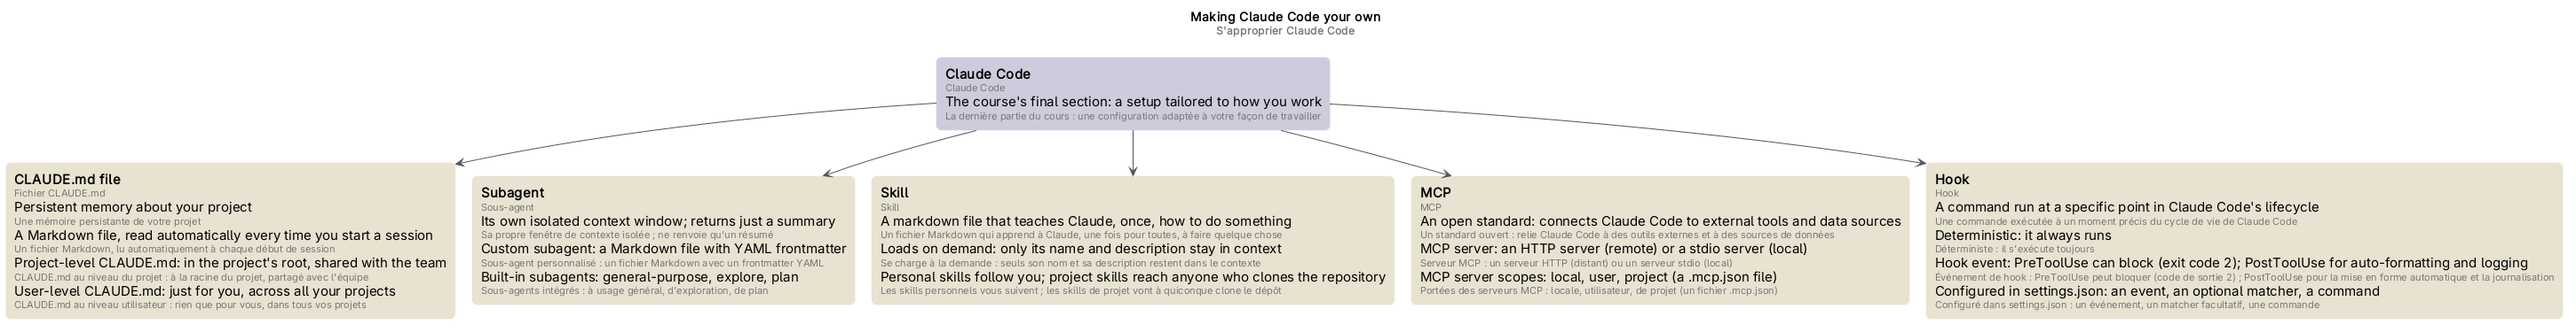
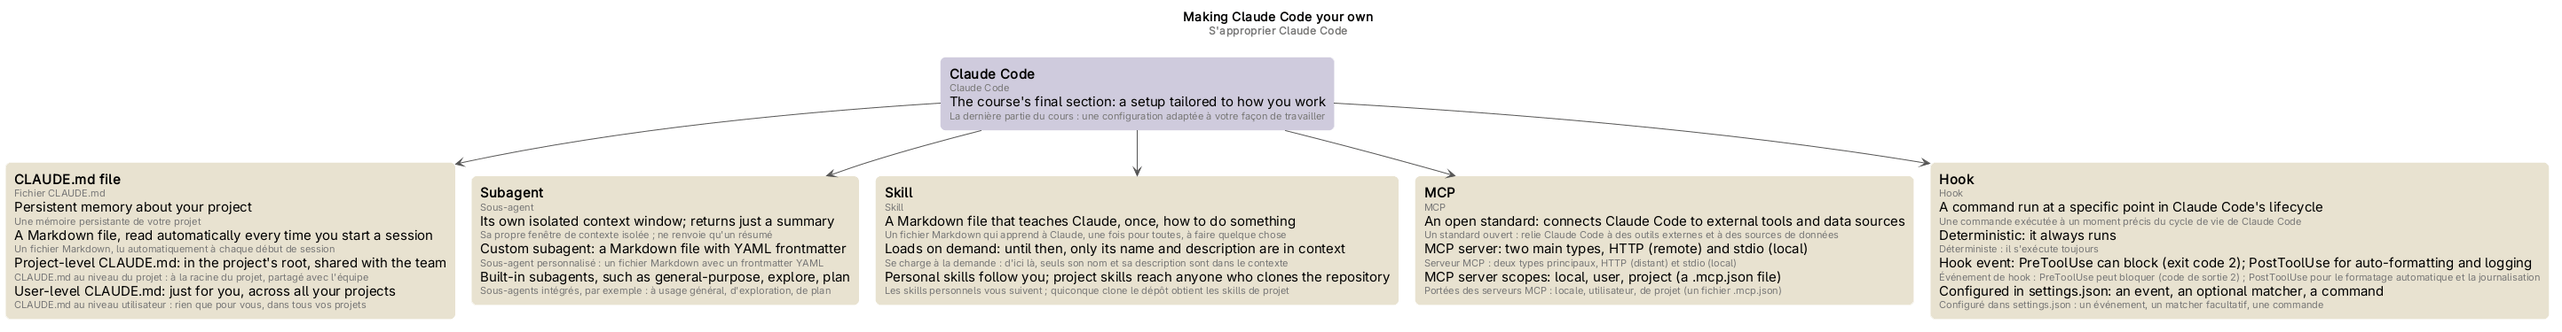
docs: Claude Code 101, a review of every entry and map against the course
Wrong attributions fixed (Desktop, winget), sentences that read the wrong
way alone (a skill's name and description, an MCP server's tool names),
open lists no longer written as closed ones, the agentic loop's done
branch added to its map, and the French of the four maps.

diff --git a/06-claude-code-101/index.md b/06-claude-code-101/index.md
@@ -15,7 +15,7 @@ Schémas, avec un sommaire et une légende pour chacun : [mindmap.md](mindmap.md
 
 ### Claude Code *(Claude Code)*
 
-An agentic coding tool that understands your codebase, edits your files, runs commands, and integrates with your existing developer tools to help you get things done faster. It's available in your terminal, Visual Studio Code, the Claude Desktop app, on the web, and in JetBrains IDEs. Unlike Claude.ai, it has direct access to your files, your terminal, and your entire codebase: instead of copying and pasting code back and forth, it goes in and does the work itself, because it works as an [AI agent](#ai-agent-agent-ia). In practice it can read and understand your codebase (explain a feature, trace a bug), edit files across your project (refactor a function and update every file that references it), run terminal commands (execute your build script, run your tests, install packages, and use the output to decide what to do next) and search the web (documentation, the latest API references). Three concepts to keep in mind to use it effectively: the [context window](#context-window-fenêtre-de-contexte), its [permission modes](#permission-modes-modes-de-permission), and the fact that it can make mistakes: it might misunderstand your intent, introduce a bug, or over-engineer a solution, and staying in the loop helps you catch these early. It combines several agentic concepts: an [agentic loop](#agentic-loop-boucle-agentique), a managed [context window](#context-window-fenêtre-de-contexte), [tools](#tool-outil), and configurable [permission modes](#permission-modes-modes-de-permission), all inside your terminal: it can read your codebase, take action, and verify its own work. That's what makes it fundamentally different from a chat window. Whatever directory you run `claude` in, it has access to that directory and all of its subfolders. To install it, on macOS, Linux, or WSL the curl command does it in one go; Homebrew and winget work too but don't auto-update by default. Where to use it: the terminal is the best bet to stay on the cutting edge, since features ship there first; the IDE integrations offer a nearly identical experience, more intertwined with your code editor; Desktop lets Claude run in the background, work in a specific folder, change permissions, or work in a cloud environment; the web is restricted to GitHub repositories and suits remote work.
+An agentic coding tool that understands your codebase, edits your files, runs commands, and integrates with your existing developer tools to help you get things done faster. It's available in your terminal, Visual Studio Code, the Claude Desktop app, on the web, and in JetBrains IDEs. Unlike Claude.ai, it has direct access to your files, your terminal, and your entire codebase: instead of copying and pasting code back and forth, it goes in and does the work itself. The key differentiator is that it works as an [AI agent](#ai-agent-agent-ia). In practice it can read and understand your codebase (explain a feature, trace a bug), edit files across your project (refactor a function and update every file that references it), run terminal commands (execute your build script, run your tests, install packages, and use the output to decide what to do next) and search the web (documentation, the latest API references). Three concepts to keep in mind to use it effectively: the [context window](#context-window-fenêtre-de-contexte), its [permission modes](#permission-modes-modes-de-permission), and the fact that it can make mistakes: it might misunderstand your intent, introduce a bug, or over-engineer a solution, and staying in the loop helps you catch these early. It combines several agentic concepts: an [agentic loop](#agentic-loop-boucle-agentique), a managed [context window](#context-window-fenêtre-de-contexte), [tools](#tool-outil), and configurable [permission modes](#permission-modes-modes-de-permission), all inside your terminal: it can read your codebase, take action, and verify its own work. That's what makes it fundamentally different from a chat window. Whatever directory you run `claude` in, it has access to that directory and all of its subfolders. To install it on macOS, Linux, or WSL, the curl command does it in one go, and Homebrew works too; on Windows there are a few options, among them a winget command. Neither Homebrew nor winget auto-updates by default. Where to use it: the terminal is the best bet to stay on the cutting edge, since features ship there first; the IDE integrations offer a nearly identical experience, more intertwined with your code editor; Desktop lets you work in a specific folder, change permissions, and even work in a cloud environment, and is great for letting Claude run in the background while you handle other tasks; the web is restricted to GitHub repositories and suits remote work.
 
 → [schéma du fonctionnement de Claude Code](mindmap/how-claude-code-works.png)
 
@@ -45,13 +45,13 @@ What [Claude Code](#claude-code-claude-code) does once you reach the limit of th
 
 ### Context commands *(Commandes de contexte)*
 
-Three commands to act on the [context window](#context-window-fenêtre-de-contexte) of [Claude Code](#claude-code-claude-code). `/compact` runs [compaction](#compaction-compaction) manually: it compacts everything up to that point, which is handy to free up context space while keeping a memory of what you previously worked on. `/clear` starts completely from scratch, with no memory of the previous session: it removes everything. `/context` checks the state of your context: a high-level overview of your context size, the categories taking up the most space, and a visual graphic showing the breakdown.
+The course's context-management commands, three commands to act on the [context window](#context-window-fenêtre-de-contexte) of [Claude Code](#claude-code-claude-code). `/compact` runs [compaction](#compaction-compaction) manually: it compacts everything up to that point, which is handy to free up context space while keeping a memory of what you previously worked on. `/clear` starts completely from scratch, with no memory of the previous session: it removes everything. `/context` checks the state of your context: a high-level overview of your context size, the categories taking up the most space, and a visual graphic showing the breakdown.
 
 → [schéma de la gestion du contexte](mindmap/context-management.png)
 
 ### Context management *(Gestion du contexte)*
 
-Keeping the [context window](#context-window-fenêtre-de-contexte) of [Claude Code](#claude-code-claude-code) useful. A general rule of thumb: use `/compact` when you're working on a specific feature and running up against the context limit but need to continue, because keeping the context relevant to your current feature is important; use `/clear` when you want to start a new feature, because you don't want the previous conversation to introduce bias into something new (see [context commands](#context-commands-commandes-de-contexte)). For things you want Claude to remember across sessions, put them in your [CLAUDE.md file](#claudemd-file-fichier-claudemd). To save context space: be specific (a vague prompt might seem smaller, but it costs more context in the long run, since without clear instructions Claude is forced to explore your codebase more and do its own reasoning); manage your [MCP servers](#mcp-server-serveur-mcp), turning off those unrelated to the current project; and use [subagents](#subagent-sous-agent) for tasks where you only need the answer.
+Managing the [context window](#context-window-fenêtre-de-contexte) of [Claude Code](#claude-code-claude-code), which the course calls crucial. A general rule of thumb: use `/compact` when you're working on a specific feature and running up against the context limit but need to continue, because keeping the context relevant to your current feature is important; use `/clear` when you want to start a new feature, because you don't want the previous conversation to introduce bias into something new (see [context commands](#context-commands-commandes-de-contexte)). For things you want Claude to remember across sessions, put them in your [CLAUDE.md file](#claudemd-file-fichier-claudemd). To save context space: be specific (a vague prompt might seem smaller, but it costs more context in the long run, since without clear instructions Claude is forced to explore your codebase more and do its own reasoning); manage your [MCP servers](#mcp-server-serveur-mcp), turning off those unrelated to the current project; and use [subagents](#subagent-sous-agent) for tasks where you only need the answer.
 
 → [schéma de la gestion du contexte](mindmap/context-management.png)
 
@@ -69,7 +69,7 @@ Model Context Protocol, an open standard that lets [Claude Code](#claude-code-cl
 
 ### MCP server *(Serveur MCP)*
 
-What connects [Claude Code](#claude-code-claude-code) to external tools and data sources through [MCP](#mcp-mcp). You add one with the claude mcp add command; it is an [HTTP server](#http-server-serveur-http) or a [stdio server](#stdio-server-serveur-stdio), and it has a [scope](#mcp-server-scopes-portées-des-serveurs-mcp). You manage your servers with /mcp inside a Claude Code session: see what's connected, check status, and disable servers you don't need. By default, a connected MCP server loads only its tool names and instructions into the context, and Claude loads a [tool](#tool-outil)'s full details when it needs that tool ([tool search](#tool-search-recherche-doutils)). It adds them even when you're not actively using it, and each server still takes some space, so if you have servers configured for things unrelated to the current project, consider turning them off (see [context management](#context-management-gestion-du-contexte)). If a tool has a CLI equivalent (like gh for GitHub or aws for AWS), the CLI is more context-efficient because it doesn't add a listing for each tool. You might also pair an MCP server with a [skill](#skill-skill) that teaches Claude how to use the server's tools well.
+What connects [Claude Code](#claude-code-claude-code) to external tools and data sources through [MCP](#mcp-mcp). You add one with the claude mcp add command; its two main types are the [HTTP server](#http-server-serveur-http) and the [stdio server](#stdio-server-serveur-stdio), and it has a [scope](#mcp-server-scopes-portées-des-serveurs-mcp). You manage your servers with /mcp inside a Claude Code session: see what's connected, check status, and disable servers you don't need. By default, a connected MCP server loads only its tool names and instructions into the context, and Claude loads a [tool](#tool-outil)'s full details when it needs that tool ([tool search](#tool-search-recherche-doutils)). A server adds its tool names and instructions to your context window even when you're not actively using it, and each connected server takes some space, so if you have servers configured for things unrelated to the current project, consider turning them off (see [context management](#context-management-gestion-du-contexte)). If a tool has a CLI equivalent (like gh for GitHub or aws for AWS), the CLI is more context-efficient because it doesn't add a listing for each tool. You might also pair an MCP server with a [skill](#skill-skill) that teaches Claude how to use the server's tools well.
 
 → [schéma de la personnalisation de Claude Code](mindmap/making-claude-code-your-own.png)
 
@@ -99,13 +99,13 @@ On by default: Claude Code keeps the full definition of each [MCP server](#mcp-s
 
 ### Permission modes *(Modes de permission)*
 
-What lets you choose how hands-on to be with [Claude Code](#claude-code-claude-code): it can ask you before running commands or making changes, or run in [auto mode](#auto-mode-mode-auto). You're always in control, whether you prefer a hands-on or hands-off approach. Claude Code has several: [manual](#manual-mode-mode-manuel), [auto-accept](#auto-accept-acceptation-automatique), [plan mode](#plan-mode-mode-plan) and [auto mode](#auto-mode-mode-auto). You can use Shift and Tab to toggle between modes (the page says cycle). There is no right or wrong choice: it is whatever you are comfortable with. All of this can be configured in your settings file. Be cautious when skipping permissions: giving Claude Code free rein to run commands means a mistake could be harder to catch before it happens.
+What lets you choose how hands-on to be with [Claude Code](#claude-code-claude-code): it can ask you before running commands or making changes, or run in [auto mode](#auto-mode-mode-auto). You're always in control, whether you prefer a hands-on or hands-off approach. Claude Code has several: [manual](#manual-mode-mode-manuel), [auto-accept](#auto-accept-acceptation-automatique), [plan mode](#plan-mode-mode-plan) and [auto mode](#auto-mode-mode-auto). Press Shift + Tab to cycle between modes. There is no right or wrong choice: it is whatever you are comfortable with. All of this can be configured in your settings file. Be cautious when skipping permissions: giving Claude Code free rein to run commands means a mistake could be harder to catch before it happens.
 
 → [schéma du fonctionnement de Claude Code](mindmap/how-claude-code-works.png)
 
 ### Manual mode *(Mode manuel)*
 
-A [permission mode](#permission-modes-modes-de-permission) of [Claude Code](#claude-code-claude-code) in which Claude asks for explicit permission before editing a file or running a shell command. The video calls it the default behavior; which mode a new session starts in depends on your Claude Code version and settings.
+A [permission mode](#permission-modes-modes-de-permission) of [Claude Code](#claude-code-claude-code) in which Claude asks for explicit permission before editing a file or running a shell command. Which mode a new session starts in depends on your Claude Code version and settings.
 
 → [schéma du fonctionnement de Claude Code](mindmap/how-claude-code-works.png)
 
@@ -135,7 +135,7 @@ The workflow the course says to take away: Explore, Plan, Code, and Commit. With
 
 ### Subagent *(Sous-agent)*
 
-A reviewer or helper that [Claude Code](#claude-code-claude-code) runs apart from the main agent. A subagent gets a fresh pair of eyes on the codebase: it doesn't carry the bias the main agent might have from the session. The course uses one as a code reviewer before you commit, and the explore subagent to get a general summary of your codebase without being in [plan mode](#plan-mode-mode-plan) and without intending to make changes afterward. A subagent runs in parallel with your main agent but has a completely separate context window: for tasks where you only need the answer, it does the work and returns just a summary to your main agent, keeping your primary context clean (see [context management](#context-management-gestion-du-contexte)). Claude can delegate tasks to subagents that break them down and run component tasks in parallel, each in its own isolated context window: what Claude discovers while exploring, such as tool calls reading your codebase or running web searches, isn't always relevant to the main feature you're developing. Claude spawns a subagent to handle a task like “explore this codebase for me”; once finished, it summarizes its findings and returns that summary back to Claude, so you get the answer without the entire journey it took to get there cluttering your main context. The subagent receives two inputs, a custom system prompt from its configuration file and a task description written by the parent agent based on what you ask for; it then works autonomously, none of its file reads, edits or tool use appears in the main conversation, only a summary is returned, and its whole conversation is discarded. The trade-off: the main window loses visibility into how the subagent reaches its conclusions and what it discovered along the way. Claude Code includes [built-in subagents](#built-in-subagents-sous-agents-intégrés), and you can create a [custom subagent](#custom-subagent-sous-agent-personnalisé) of your own.
+A specialized assistant that [Claude Code](#claude-code-claude-code) can delegate tasks to, operating in its own isolated context window. A subagent gets a fresh pair of eyes on the codebase: it doesn't carry the bias the main agent might have from the session. The course uses one as a code reviewer before you commit, and the explore subagent to get a general summary of your codebase without being in [plan mode](#plan-mode-mode-plan) and without intending to make changes afterward. A subagent runs in parallel with your main agent but has a completely separate context window: for tasks where you only need the answer, it does the work and returns just a summary to your main agent, keeping your primary context clean (see [context management](#context-management-gestion-du-contexte)). Claude can delegate tasks to subagents that break them down and run component tasks in parallel, each in its own isolated context window: a lot of the context window gets consumed by things like tool calls exploring your codebase or running web searches, and what Claude discovers during that exploration isn't always relevant to the main feature you're developing. Claude spawns a subagent to handle a task like "explore this codebase for me"; once finished, it summarizes its findings and returns that summary back to Claude, so you get the answer without the entire journey it took to get there cluttering your main context. The subagent receives two inputs, a custom system prompt from its configuration file and a task description written by the parent agent based on what you ask for; it then works autonomously; none of its file reads, edits or tool use appears in the main conversation; only a summary is returned, and its whole conversation is discarded. The trade-off: the main window loses visibility into how the subagent reaches its conclusions and what it discovered along the way. Claude Code includes [built-in subagents](#built-in-subagents-sous-agents-intégrés), and you can create a [custom subagent](#custom-subagent-sous-agent-personnalisé) of your own.
 
 → [schéma de la personnalisation de Claude Code](mindmap/making-claude-code-your-own.png)
 
@@ -147,13 +147,13 @@ A [subagent](#subagent-sous-agent) you create yourself, with a custom system pro
 
 ### Built-in subagents *(Sous-agents intégrés)*
 
-The [subagents](#subagent-sous-agent) that [Claude Code](#claude-code-claude-code) includes and you can use immediately. The general-purpose subagent is used for multi-step tasks that require both exploration and action; the explore subagent, for fast searching of codebases; the plan subagent, during [plan mode](#plan-mode-mode-plan), for research and analysis of your codebase before presenting a plan. You can also create your own, with custom system prompts and tool access (see [custom subagent](#custom-subagent-sous-agent-personnalisé)).
+[Claude Code](#claude-code-claude-code) includes several [subagents](#subagent-sous-agent) that you can use immediately, such as these three. The general-purpose subagent is used for multi-step tasks that require both exploration and action; the explore subagent, for fast searching of codebases; the plan subagent, during [plan mode](#plan-mode-mode-plan), for research and analysis of your codebase before presenting a plan. You can also create your own, with custom system prompts and tool access (see [custom subagent](#custom-subagent-sous-agent-personnalisé)).
 
 → [schéma de la personnalisation de Claude Code](mindmap/making-claude-code-your-own.png)
 
 ### CLAUDE.md file *(Fichier CLAUDE.md)*
 
-A Markdown file you add to the root of your project: it gives [Claude Code](#claude-code-claude-code) persistent memory about your project, and Claude Code reads it automatically every time you start a session. Without one, it starts fresh every time: it has to re-explore your codebase, figure out what dependencies are needed and understand what features are already implemented, and sometimes it makes assumptions, which makes it harder to steer Claude in the right direction. Think of it as an onboarding script for your codebase: its contents are appended to your prompt. It is where to put what you want Claude to remember across sessions, so it doesn't have to rediscover things from scratch. Start with your stack, your preferences and your commands, then build from there as you go. You can (and should) commit it to version control so your team benefits from it; there is a hierarchy of memory files depending on who they're for: the [project-level CLAUDE.md](#project-level-claudemd-claudemd-au-niveau-du-projet) and the [user-level CLAUDE.md](#user-level-claudemd-claudemd-au-niveau-utilisateur). Save corrections to memory: if you find yourself correcting Claude repeatedly, explicitly ask it to save that rule to memory (if Claude keeps running into the same issues, ask it to save the solution to its CLAUDE.md file), and next time you open the project it will know. To have Claude reference project docs, use the @ symbol with the file path. Start without one, so you can see where you constantly have to course-correct the model: this keeps your CLAUDE.md compact and focused on only the necessary information. See [context management](#context-management-gestion-du-contexte) and the [/init command](#init-command-commande-init).
+A Markdown file you add to the root of your project: it gives [Claude Code](#claude-code-claude-code) persistent memory about your project, and Claude Code reads it automatically every time you start a session. Without one, it starts fresh every time: it has to re-explore your codebase, figure out what dependencies are needed and understand what features are already implemented, and sometimes it makes assumptions, which makes it harder to steer Claude in the right direction. Think of it as an onboarding script for your codebase: its contents are appended to your prompt. It is where to put what you want Claude to remember across sessions, so it doesn't have to rediscover things from scratch. You can (and should) commit it to version control so your team benefits from it; there is a hierarchy of memory files depending on who they're for: the [project-level CLAUDE.md](#project-level-claudemd-claudemd-au-niveau-du-projet) and the [user-level CLAUDE.md](#user-level-claudemd-claudemd-au-niveau-utilisateur). Save corrections to memory: if you find yourself correcting Claude repeatedly, explicitly ask it to save that rule to memory (if Claude keeps running into the same issues, ask it to save the solution to its CLAUDE.md file), and next time you open the project it will know. To have Claude reference project docs, use the @ symbol with the file path. Start without one, so you can see where you constantly have to course-correct the model: this keeps your CLAUDE.md compact and focused on only the necessary information. Its content: start with your stack, your preferences and your commands, then build from there as you go. See [context management](#context-management-gestion-du-contexte) and the [/init command](#init-command-commande-init).
 
 → [schéma de la personnalisation de Claude Code](mindmap/making-claude-code-your-own.png) · [schéma de la gestion du contexte](mindmap/context-management.png)
 
@@ -183,7 +183,7 @@ The before-and-after of a change: the lines removed and the lines added, file by
 
 ### /code-review command *(Commande /code-review)*
 
-A second reviewer for a change, before you keep it: it reviews the change in a clean context, with none of your session's history, and reports what it finds ([findings](#finding-constat)). It edits nothing unless you ask it to. A long session carries everything it has read and decided, which is exactly the history you don't want in a reviewer (see [context management](#context-management-gestion-du-contexte)). The review runs in the background, anywhere from seconds to a few minutes, and counts against your usage like any other task, so save it for changes that deserve a second look. An effort level goes after the command: `/code-review low` reports only the findings it's most confident about, `/code-review high` casts a wider net and may include findings it's less sure of; the level you type is remembered for later reviews until you type a different one. It is not Claude Code Review, a separate product for teams: an Owner of your Claude organization turns it on for a GitHub repository, and it posts its findings on pull requests. See also [diff](#diff-diff).
+A second reviewer for a change, before you keep it: it reviews the change in a clean context, with none of your session's history, and reports what it finds ([findings](#finding-constat)). It edits nothing unless you ask it to. A long session carries everything it has read and decided, which is exactly the history you don't want in a reviewer (see [context management](#context-management-gestion-du-contexte)). The review runs in the background, anywhere from seconds to a few minutes, and counts against your usage like any other task, so save it for changes that deserve a second look. An effort level goes after the command: `/code-review low` reports only the findings it's most confident about, `/code-review high` casts a wider net and may include findings it's less sure of; the level you type is remembered for later reviews until you type a different one. It is not Claude Code Review. That is a separate product for teams: an Owner of your Claude organization turns Claude Code Review on for a GitHub repository, and it posts its findings on pull requests. See also [diff](#diff-diff).
 
 → [schéma du flux de travail](mindmap/workflow.png)
 
@@ -195,13 +195,13 @@ What a [/code-review](#code-review-command-commande-code-review) reports: a file
 
 ### /rewind command *(Commande /rewind)*
 
-The way back when the whole change is wrong: run `/rewind` (or press Esc twice on an empty prompt), pick the prompt that produced it, and choose Restore code and conversation. One limit: files changed by shell commands Claude ran, such as a package install, aren't rolled back. It works on a different version control system too, because Claude tracks its own edits. See the [diff](#diff-diff).
+The way back when the whole change is wrong: run `/rewind` (or press Esc twice on an empty prompt), pick the prompt that produced it, and choose Restore code and conversation. One limit: files changed by shell commands Claude ran, such as a package install, aren't rolled back. It works on a different version control system too, because Claude tracks its own edits. See [diff](#diff-diff).
 
 → [schéma du flux de travail](mindmap/workflow.png)
 
 ### Skill *(Skill)*
 
-A markdown file that teaches Claude how to do something once, and Claude applies that knowledge automatically whenever it's relevant. Skills fix having to explain your team's coding standards, how you want feedback structured on a PR review or your preferred commit message format every time. Agent skills are folders of instructions, scripts and resources that Claude can discover and use to do things more accurately and efficiently. In Claude Code, a skill has a SKILL.md file, and its description is how Claude decides whether to use the skill: it matches your request against the available skill descriptions and activates the ones that match. Skills are unique among the ways to customize Claude Code because they are automatic and task specific: unlike a [CLAUDE.md file](#claudemd-file-fichier-claudemd), which loads into every conversation (so a rule Claude should always follow, such as TypeScript strict mode, goes there), a skill loads on demand when it matches your request. Only its name and description are loaded, so it doesn't fill up your context window (see [context window](#context-window-fenêtre-de-contexte)): a PR review checklist is not in the context while you're debugging, and loads when you ask for a review. Slash commands require you to type them; skills don't, Claude applies them when it recognizes the situation. Skills work best for specialized knowledge that applies to specific tasks: code review standards your team follows, commit message formats that you prefer, your organization's brand guidelines. If you find yourself explaining the same thing to Claude repeatedly, that's a skill waiting to be written. A [custom subagent](#custom-subagent-sous-agent-personnalisé) can preload skills. Skills are stored as [personal skills](#personal-skills-skills-personnels) or [project skills](#project-skills-skills-de-projet), depending on who needs them.
+A Markdown file that teaches Claude how to do something once, and Claude applies that knowledge automatically whenever it's relevant. Skills fix having to explain your team's coding standards, how you want feedback structured on a PR review or your preferred commit message format every time. Agent skills are folders of instructions, scripts and resources that Claude can discover and use to do things more accurately and efficiently. In Claude Code, a skill has a SKILL.md file, and its description is how Claude decides whether to use the skill: it matches your request against the available skill descriptions and activates the ones that match. Skills are unique among the ways to customize Claude Code because they are automatic and task specific: unlike a [CLAUDE.md file](#claudemd-file-fichier-claudemd), which loads into every conversation (so a rule Claude should always follow, such as TypeScript strict mode, goes there), a skill loads on demand when it matches your request. Until then, only its name and description are loaded into context, so it doesn't fill up your context window (see [context window](#context-window-fenêtre-de-contexte)): a PR review checklist is not in the context while you're debugging, and loads when you ask for a review. Slash commands require you to type them; skills don't, Claude applies them when it recognizes the situation. Skills work best for specialized knowledge that applies to specific tasks: code review standards your team follows, commit message formats that you prefer, your organization's brand guidelines. If you find yourself explaining the same thing to Claude repeatedly, that's a skill waiting to be written. A [custom subagent](#custom-subagent-sous-agent-personnalisé) can preload skills. Skills can be stored in a few places depending on who needs them, among them [personal skills](#personal-skills-skills-personnels) and [project skills](#project-skills-skills-de-projet).
 
 → [schéma de la personnalisation de Claude Code](mindmap/making-claude-code-your-own.png)
 
@@ -231,7 +231,7 @@ The point in [Claude Code](#claude-code-claude-code)'s lifecycle at which a [hoo
 
 ### Matcher *(Matcher)*
 
-The optional part of a [hook](#hook-hook)'s configuration that sets which tools it applies to. The most common hook, auto-formatting after edits, is a PostToolUse [hook event](#hook-event-événement-de-hook) with a matcher of "Edit|Write", so it fires after Claude uses the Edit or Write tool. Its command checks the file extension and runs the appropriate formatter: Prettier for TypeScript, gofmt for Go, whatever your project uses.
+The optional part of a [hook](#hook-hook)'s configuration that sets which tools it applies to. The most common hook, auto-formatting after edits, is a PostToolUse hook (see [hook event](#hook-event-événement-de-hook)) with a matcher of "Edit|Write", so it fires after Claude uses the Edit or Write tool. Its command checks the file extension and runs the appropriate formatter: Prettier for TypeScript, gofmt for Go, whatever your project uses.
 
 → [schéma de la personnalisation de Claude Code](mindmap/making-claude-code-your-own.png)
 

diff --git a/06-claude-code-101/mindmap.md b/06-claude-code-101/mindmap.md
@@ -18,13 +18,13 @@ Les schémas du [glossaire](index.md), un par partie du cours. Chacun est un fic
 
 ![Schéma du fonctionnement de Claude Code](mindmap/how-claude-code-works.png)
 
-*Claude Code, un outil de codage agentique qui fonctionne comme un agent IA ; la boucle agentique (un prompt, rassembler le contexte, agir, vérifier les résultats, recommencer tant qu'ils ne sont pas complets), que l'on peut orienter à tout moment ; la fenêtre de contexte, les outils et les quatre modes de permission.* Source : [how-claude-code-works.puml](mindmap/how-claude-code-works.puml)
+*Claude Code, un outil de codage agentique qui fonctionne comme un agent IA ; la boucle agentique (un prompt, rassembler le contexte, agir, vérifier les résultats ; s'ils sont bons, attendre le prompt suivant, sinon recommencer), que l'on peut orienter à tout moment ; la fenêtre de contexte, les outils et les quatre modes de permission.* Source : [how-claude-code-works.puml](mindmap/how-claude-code-works.puml)
 
 ## Schéma du flux de travail
 
 ![Schéma du flux de travail](mindmap/workflow.png)
 
-*Le flux de travail Explore, Plan, Code, Commit, la seule chose à retenir du cours : ce que fait chaque étape, le mode Plan pour les deux premières, la relecture du plan comme meilleur moment pour ajuster ; la revue de code avant de conserver un changement (/diff, /code-review, les trois piles de constats, /rewind).* Source : [workflow.puml](mindmap/workflow.puml)
+*Le flux de travail Explore, Plan, Code, Commit, celui qu'il faut retenir s'il ne fallait retenir qu'une chose de ce cours : ce que fait chaque étape, le mode Plan pour les deux premières, l'examen du plan comme meilleur moment pour ajuster ; la revue de code avant de conserver un changement (/diff, /code-review, les trois piles de constats, /rewind).* Source : [workflow.puml](mindmap/workflow.puml)
 
 ## Schéma de la gestion du contexte
 
